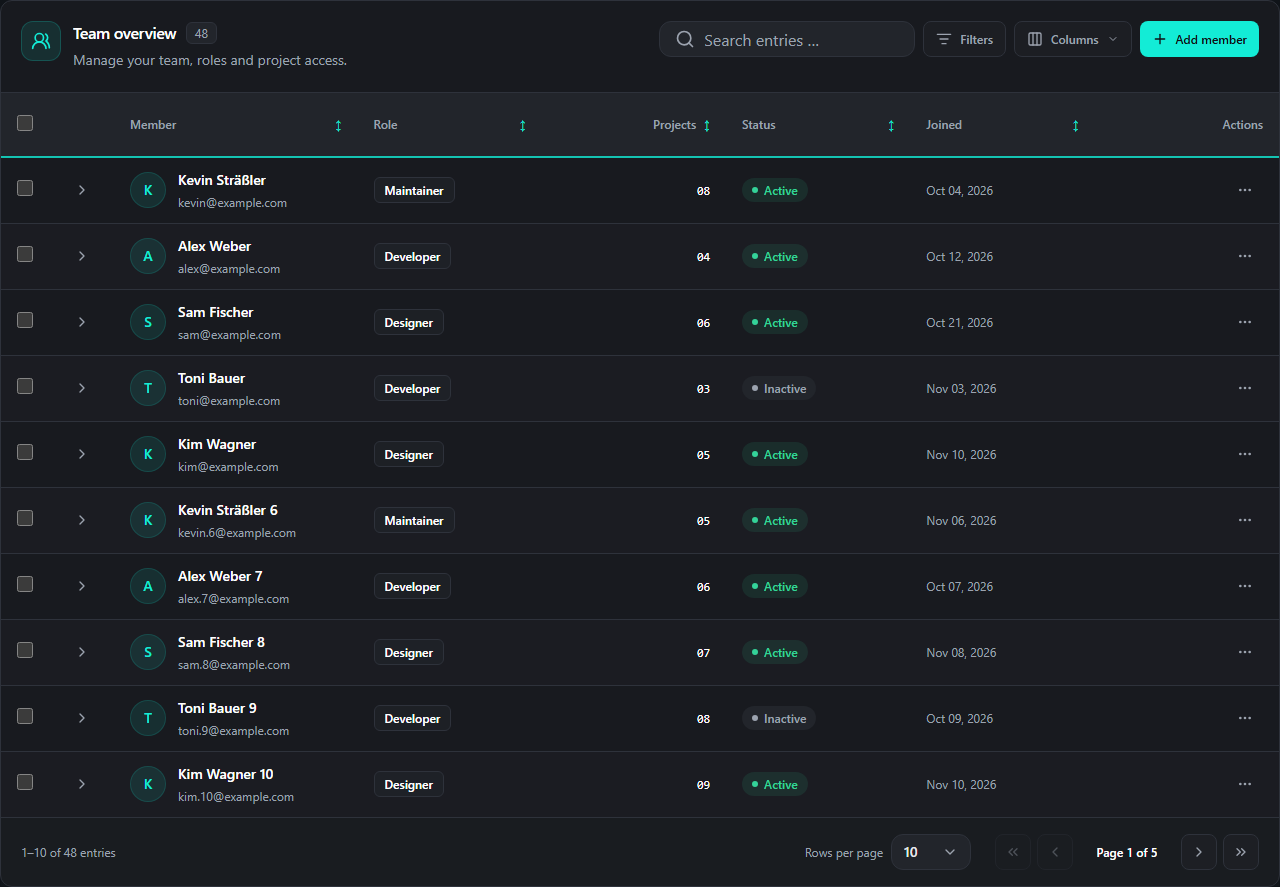
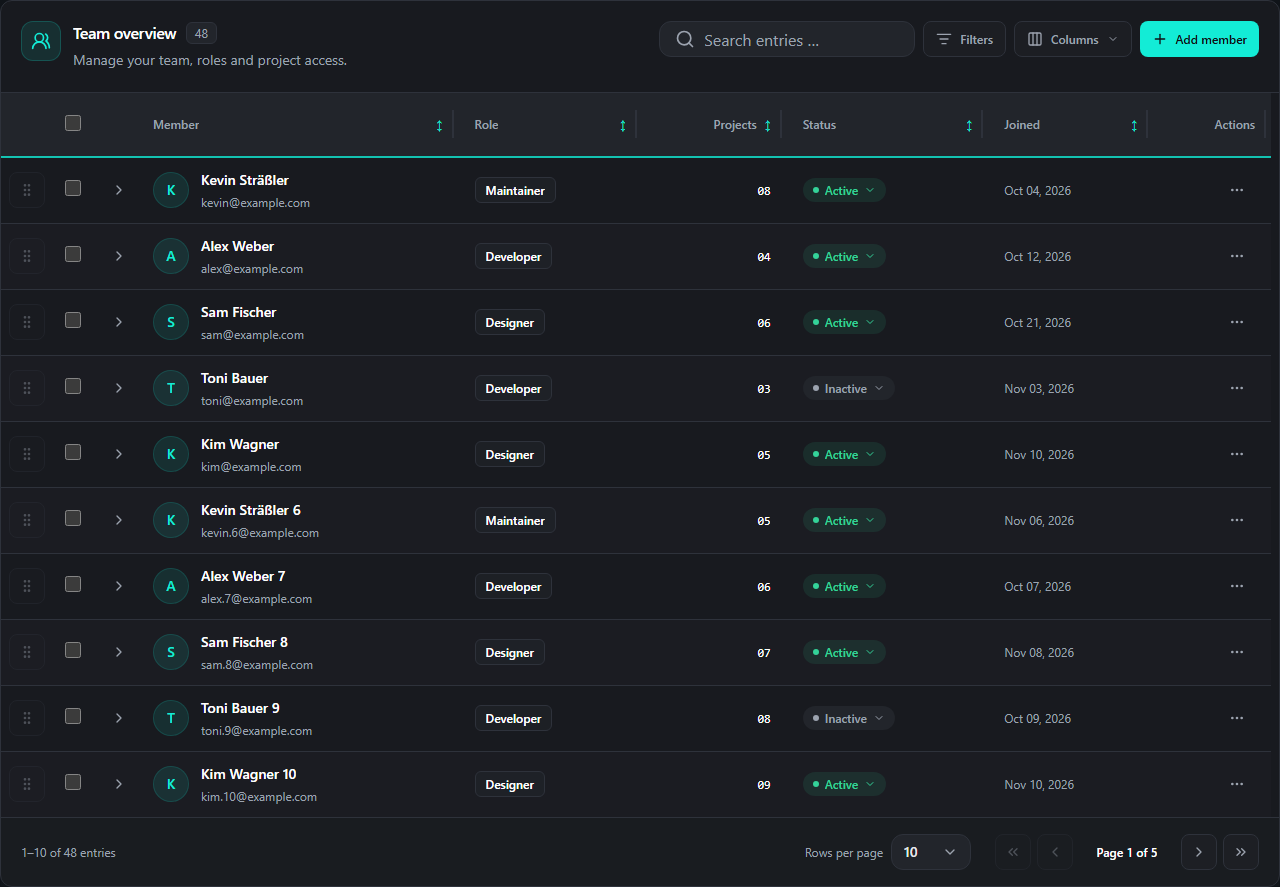
chore(release): prepare v1.0.0

diff --git a/src/tests/shared/Table/Components/columnResizing.test.tsx b/src/tests/shared/Table/Components/columnResizing.test.tsx
@@ -1,5 +1,5 @@
 import { afterEach, describe, expect, test } from 'bun:test'
-import { cleanup, fireEvent, render, screen } from '@testing-library/react'
+import { act, cleanup, fireEvent, render, screen } from '@testing-library/react'
 import { useState } from 'react'
 import { createTableColumnHelper, DataTable } from '../../../../index.ts'
 
@@ -28,7 +28,108 @@ const columns = helper.columns([
     }),
 ])
 
+const resizeTableView = (
+    roleVisible = true,
+    selectable = false,
+    maxSize = 1000,
+) => (
+    <DataTable
+        data={[{ name: 'Kevin', role: 'Engineer', team: 'Core' }]}
+        columns={maxSize === 1000 ? columns : [...columns]}
+        resizableColumns
+        selectable={selectable}
+        renderExpandedRow={selectable ? () => <p>Details</p> : undefined}
+        tableOptions={{
+            defaultColumn: { minSize: 90, maxSize },
+            state: { columnVisibility: { role: roleVisible } },
+        }}
+    />
+)
+
 describe('bounded resize interactions', () => {
+    test('keeps resize observers connected while updating widths, visibility and utility columns', () => {
+        const originalObserver = globalThis.ResizeObserver
+        const viewportWidth = Object.getOwnPropertyDescriptor(
+            HTMLElement.prototype,
+            'clientWidth',
+        )
+        let width = 600
+        const observers: Observer[] = []
+        class Observer implements ResizeObserver {
+            disconnected = false
+            constructor(readonly callback: ResizeObserverCallback) {
+                observers.push(this)
+            }
+            observe() {}
+            unobserve() {}
+            disconnect() {
+                this.disconnected = true
+            }
+        }
+        globalThis.ResizeObserver = Observer
+        Object.defineProperty(HTMLElement.prototype, 'clientWidth', {
+            configurable: true,
+            get() {
+                return this.hasAttribute('data-rentner-table-container')
+                    ? width
+                    : 0
+            },
+        })
+        try {
+            const { rerender, unmount } = render(resizeTableView())
+            const handle = screen.getByRole('separator', {
+                name: 'Resize Name',
+            })
+            expect(handle.getAttribute('aria-valuemax')).toBe('430')
+            const initial = observers.length
+            expect(initial).toBe(3)
+            for (let index = 0; index < 10; index++) rerender(resizeTableView())
+            fireEvent.mouseDown(handle, { button: 0, clientX: 100 })
+            for (let index = 0; index < 10; index++)
+                fireEvent.mouseMove(document, { clientX: 100 + index * 10 })
+            fireEvent.mouseUp(document, { clientX: 200 })
+            expect(observers).toHaveLength(initial)
+            expect(observers.every((observer) => !observer.disconnected)).toBe(
+                true,
+            )
+
+            rerender(resizeTableView(false, true))
+            expect(handle.getAttribute('aria-valuemax')).toBe('432')
+            expect(observers).toHaveLength(initial)
+            expect(
+                observers.filter((observer) => observer.disconnected),
+            ).toHaveLength(1)
+            width = 400
+            act(() => {
+                for (const observer of observers)
+                    if (!observer.disconnected) observer.callback([], observer)
+            })
+            expect(handle.getAttribute('aria-valuemax')).toBe('232')
+            fireEvent.keyDown(handle, { key: 'End' })
+            expect(handle.getAttribute('aria-valuenow')).toBe('232')
+
+            rerender(resizeTableView(false, true, 180))
+            expect(handle.getAttribute('aria-valuemax')).toBe('180')
+            fireEvent.keyDown(handle, { key: 'End' })
+            expect(handle.getAttribute('aria-valuenow')).toBe('180')
+            expect(observers).toHaveLength(initial)
+            unmount()
+            expect(observers.every((observer) => observer.disconnected)).toBe(
+                true,
+            )
+        } finally {
+            cleanup()
+            globalThis.ResizeObserver = originalObserver
+            if (viewportWidth)
+                Object.defineProperty(
+                    HTMLElement.prototype,
+                    'clientWidth',
+                    viewportWidth,
+                )
+            else Reflect.deleteProperty(HTMLElement.prototype, 'clientWidth')
+        }
+    })
+
     test('preserves controlled onEnd sizing, group leaves, inherited limits, RTL and touch cleanup', () => {
         const viewportWidth = Object.getOwnPropertyDescriptor(
             HTMLElement.prototype,

diff --git a/src/shared/Table/Hooks/useTableResizeHandleLogic.ts b/src/shared/Table/Hooks/useTableResizeHandleLogic.ts
@@ -31,6 +31,13 @@ export function useTableResizeHandleLogic<TData extends RowData>({
     )
     const [previewOffset, setPreviewOffset] = useState(0)
     const column = header.column
+    const visibleColumnCount = table.getVisibleLeafColumns().length
+    // The public table wrapper changes per render; the observer only needs
+    // the latest committed column count to distinguish utility columns.
+    const visibleColumnCountRef = useRef(visibleColumnCount)
+    useLayoutEffect(() => {
+        visibleColumnCountRef.current = visibleColumnCount
+    }, [visibleColumnCount])
     const label = getColumnLabel(column)
     const isResizing = column.getIsResizing()
     const direction = table.options.columnResizeDirection === 'rtl' ? -1 : 1
@@ -41,7 +48,7 @@ export function useTableResizeHandleLogic<TData extends RowData>({
             return Number.POSITIVE_INFINITY
         const utilityCount =
             (tableElement.querySelector('colgroup')?.children.length ?? 0) -
-            table.getVisibleLeafColumns().length
+            visibleColumnCountRef.current
         const utilityWidth = Array.from(
             tableElement.querySelector('colgroup')?.children ?? [],
         )
@@ -55,7 +62,7 @@ export function useTableResizeHandleLogic<TData extends RowData>({
                 0,
             )
         return Math.max(0, viewport.clientWidth - utilityWidth)
-    }, [table])
+    }, [])
     useLayoutEffect(() => {
         const measure = () => setAvailableWidth(getAvailableWidth())
         const viewport = element.current?.closest('table')?.parentElement

diff --git a/src/tests/shared/Table/Components/persistence.browser.spec.ts b/src/tests/shared/Table/Components/persistence.browser.spec.ts
@@ -5,6 +5,37 @@ test.beforeEach(async ({ page }) => {
     await page.emulateMedia({ reducedMotion: 'reduce' })
 })
 
+test('keeps the reordered rows when remembering settings is turned off', async ({
+    page,
+}) => {
+    await page.goto('/?remember=1')
+    const table = page.getByRole('table')
+    const handle = table.getByRole('button', {
+        name: 'Move Kevin Sträßler',
+        exact: true,
+    })
+    await expect(handle).toBeEnabled()
+    await handle.focus()
+    await page.keyboard.press('Space')
+    await expect(page.locator('[data-rentner-row-preview]')).toBeVisible()
+    await page.keyboard.press('ArrowDown')
+    await expect(page.locator('[id^="DndLiveRegion"]')).toContainText(
+        'position 2 of 10',
+    )
+    await page.keyboard.press('Space')
+    await expect(table.locator('tr[data-row-id]').nth(1)).toHaveAttribute(
+        'data-row-id',
+        'kevin',
+    )
+    await page
+        .getByRole('button', { name: 'Remember settings', exact: true })
+        .click()
+    await expect(table.locator('tr[data-row-id]').nth(1)).toHaveAttribute(
+        'data-row-id',
+        'kevin',
+    )
+})
+
 test('opts in from the playground without changing the default mode', async ({
     page,
 }) => {

diff --git a/playground/src/Types/playground.types.ts b/playground/src/Types/playground.types.ts
@@ -4,7 +4,6 @@ import type {
     TableLocale,
     TableRow,
     TableRowEvents,
-    TableRowOrderChange,
     TableSize,
 } from '../../../src/index.ts'
 import type { MouseEventHandler, ReactNode } from 'react'
@@ -34,7 +33,6 @@ export interface TeamTableProps {
     onAddMember: () => void
     onActivateMembers: (context: DataTableContext<Member>) => void
     onStatusChange: (id: string, active: boolean) => void
-    onRowOrderChange: (data: Member[], change: TableRowOrderChange) => void
 }
 
 export interface TeamTableLogicResult {
@@ -86,6 +84,5 @@ export interface PlaygroundLogicResult {
         handleAddMember: () => void
         handleActivateMembers: (context: DataTableContext<Member>) => void
         handleStatusChange: TeamTableProps['onStatusChange']
-        handleRowOrderChange: TeamTableProps['onRowOrderChange']
     }
 }

diff --git a/playground/src/Components/TeamTable.tsx b/playground/src/Components/TeamTable.tsx
@@ -19,7 +19,6 @@ export function TeamTable({
     onAddMember,
     onActivateMembers,
     onStatusChange,
-    onRowOrderChange,
 }: TeamTableProps) {
     const {
         state,
@@ -54,9 +53,6 @@ export function TeamTable({
                     striped={striped}
                     resizableColumns={resizableColumns}
                     reorderableRows={reorderableRows}
-                    onRowOrderChange={
-                        rememberSettings ? undefined : onRowOrderChange
-                    }
                     persistence={
                         rememberSettings
                             ? 'rentner-table:playground:team'

diff --git a/playground/src/App.tsx b/playground/src/App.tsx
@@ -172,7 +172,6 @@ export function App() {
                     onAddMember={handler.handleAddMember}
                     onActivateMembers={handler.handleActivateMembers}
                     onStatusChange={handler.handleStatusChange}
-                    onRowOrderChange={handler.handleRowOrderChange}
                 />
                 <footer className="mt-5 flex flex-wrap items-start justify-between gap-3 text-xs leading-5 text-rentner-muted">
                     <p>{playgroundMessages[state.locale].hint}</p>

diff --git a/playground/src/Hooks/usePlaygroundLogic.ts b/playground/src/Hooks/usePlaygroundLogic.ts
@@ -108,7 +108,6 @@ export function usePlaygroundLogic(): PlaygroundLogicResult {
             handleAddMember,
             handleActivateMembers,
             handleStatusChange,
-            handleRowOrderChange: setData,
         },
     }
 }

diff --git a/docs/usage.md b/docs/usage.md
@@ -59,11 +59,95 @@ export default function ReusableTeam() {
 }
 ```
 
-Resize a leaf column at its edge. Arrow keys change width by 10 pixels, Shift+Arrow by 50; Home or double-click resets its configured size, and End selects its maximum. `minSize`, `maxSize` and `enableResizing` configure each column. Native `tableOptions.columnResizeMode`, `columnResizeDirection`, controlled `state.columnSizing` and `onColumnSizingChange` remain available on `DataTable`.
+Resize a leaf column at its edge. Width stays within the available viewport: growing a column borrows available space from resizable peers until their minimum sizes or the configured maximum is reached. Arrow keys change width by 10 pixels, Shift+Arrow by 50; Home or double-click resets its configured size, and End selects its available maximum. `minSize`, `maxSize` and `enableResizing` configure each column. When a viewport cannot contain the configured minima, rendered widths fit proportionally without replacing persisted size preferences. Native `tableOptions.columnResizeMode`, `columnResizeDirection`, controlled `state.columnSizing` and `onColumnSizingChange` remain available on `DataTable`.
 
 Drag a row by its handle, hold the handle briefly on touch devices, or use Space, arrow keys and Space/Enter to move it with the keyboard. Escape and drops outside the table cancel. The preview stays within the visible table width and includes expanded details. Clear sorting before reordering; dragging is disabled while sorting is active or the table is loading or showing an error.
 
 `reorderableRows` alone keeps the order internally. Providing `onRowOrderChange(data, change)` makes the caller responsible for applying the returned array. `TableRowOrderChange` contains `activeId`, `overId`, `fromIndex` and `toIndex`; indices refer to the full supplied data, before filtering and pagination. Only rendered rows are drag targets. Keep stable record IDs, preserve the rest of the data when persisting server-page changes, and retain order in your backend when required. Selection and expanded details stay attached to their record during reordering. Drag dependencies load on demand.
+
+## Remembering table preferences
+
+Persistence is opt-in. Set `persistence="members:user-id"` for local browser storage, or supply an options object. Use a unique key per table and account; use React's `key` when changing the component's application identity. No complete data records, event handlers or transient drag state are stored.
+
+```tsx
+import { useRef } from 'react'
+import { DataTable, createTableColumnHelper } from '@rentnerkev/table'
+import type { TableStateController } from '@rentnerkev/table'
+
+type Member = { id: string; name: string }
+const column = createTableColumnHelper<Member>()
+const columns = column.columns([column.accessor('name', { header: 'Member' })])
+
+export function PersistentMembers({
+    members,
+    userId,
+    isLoading,
+}: {
+    members: readonly Member[]
+    userId: string
+    isLoading: boolean
+}) {
+    const preferences = useRef<TableStateController>(null)
+    return (
+        <DataTable
+            key={userId}
+            data={members}
+            columns={columns}
+            getRowId={(member) => member.id}
+            isLoading={isLoading}
+            resizableColumns
+            reorderableRows
+            selectable
+            stateRef={preferences}
+            persistence={{ key: `members:${userId}`, storage: 'local' }}
+        />
+    )
+}
+```
+
+Snapshots have `{ version: 1, state: { ... } }`. Supported fields are `sorting`, `columnFilters`, `globalFilter`, `columnVisibility`, `columnSizing`, `pagination`, `rowSelection`, `expanded`, `showFilters` and internal `rowOrder`. Set `fields` to an allowlist, for example `['sorting', 'columnSizing', 'columnVisibility']`. Use `storage: 'session'` for tab-session storage. Writes default to a 250 ms debounce; `debounceMs` changes the delay. Browser storage also flushes synchronously on `pagehide`.
+
+Internal row order is a list of stable IDs and survives asynchronous data loading when `isLoading` is supplied. With `onRowOrderChange`, the application owns data order: persist the returned IDs/positions in the application backend and supply the ordered records when loading. `applyTableRowOrder(data, ids, getRowId)` applies an ID list to current records while retaining new records' insertion positions.
+
+### Asynchronous database storage
+
+Supply a `TableStateStorage` adapter. `load(key, signal)` returns a snapshot or `null`; `save(key, snapshot)` stores it; optional `remove(key)` clears it. For example, connect these methods to an authenticated application API:
+
+```ts
+import type { TableStateStorage } from '@rentnerkev/table'
+
+const endpoint = (key: string) =>
+    `/api/table-preferences/${encodeURIComponent(key)}`
+export const preferencesStorage: TableStateStorage = {
+    async load(key, signal) {
+        const response = await fetch(endpoint(key), { signal })
+        if (response.status === 404) return null
+        if (!response.ok)
+            throw new Error(`Loading preferences failed (${response.status})`)
+        return response.json()
+    },
+    async save(key, snapshot) {
+        const response = await fetch(endpoint(key), {
+            method: 'PUT',
+            headers: { 'Content-Type': 'application/json' },
+            body: JSON.stringify(snapshot),
+        })
+        if (!response.ok)
+            throw new Error(`Saving preferences failed (${response.status})`)
+    },
+    async remove(key) {
+        const response = await fetch(endpoint(key), { method: 'DELETE' })
+        if (!response.ok && response.status !== 404)
+            throw new Error(`Clearing preferences failed (${response.status})`)
+    },
+}
+```
+
+Pass `persistence={{ key, storage: preferencesStorage, onError }}`. The table validates loaded snapshots, ignores obsolete columns, preserves fields edited while loading, aborts obsolete loads, and serializes writes so an older request cannot overwrite a later change. Failed loads leave the current UI usable and do not overwrite stored preferences with defaults. `onError(error, { operation, key })` reports failures; `onRestore(snapshot)` observes accepted state. Custom filter values must be JSON-compatible; unsupported values are omitted, and optional undefined object properties are omitted like `JSON.stringify`.
+
+`stateRef` exposes `getState()`, `restoreState(snapshot)`, `flush()`, `clear()` and `reload()`. Exported snapshots are detached; restoring a partial snapshot uses native controlled-state callbacks. `clear()` removes stored preferences without resetting the current UI, and `reload()` retries loading. If an adapter has no `remove`, clearing saves an empty snapshot. Await `flush()` before application navigation when the backend must confirm a write; arbitrary asynchronous requests cannot be guaranteed to finish after a browser tab closes.
+
+The headless hook exposes the same operations as `handler.handleGetState`, `handleRestoreState`, `handleFlushState`, `handleClearStoredState` and `handleReloadState`, plus `state.persistenceStatus` and `state.persistenceError`. Browser storage is accessed after mounting, so server rendering does not require `window`.
 
 ## Row, cell and table events
 
@@ -175,10 +259,14 @@ Set `locale="de"` or `locale="en"` and override individual labels or formatter f
 
 `isLoading` displays the loading state and disables built-in controls. `isRefreshing` retains the visible rows and adds a refresh indicator. Custom `toolbarActions` and `bulkActions` remain application-owned; manage their disabled state in your action components.
 
-Use `error={true}` for the translated default error message, a React node for custom content, and `onRetry` for retry behavior. `error={false}` leaves data visible. `emptyState`, `loadingState` and `noResultsState` customize their respective content. Filtered empty results include a reset action.
+Use `error={true}` for the translated default error message, a React node for custom content, and `onRetry` for retry behavior. `error={false}` leaves data visible. `emptyState`, `loadingState` and `noResultsState` customize their respective content. Filtered empty results include the active search and column-filter values, with readable select labels and dates, and a reset action. `messages.noResultsFor(summary)` customizes that title; custom `noResultsState` content retains precedence. The separate responsive filter panel remains visible, with `messages.anyDate` available for its date placeholder.
 
 ## Rendering and performance
 
 The library is ESM with public subpath exports and server-renderable markup. Interactive consumers need a client boundary in frameworks that distinguish server and client components. Date-filter UI loads lazily; row data remains application-owned.
 
-Pagination bounds rendered rows. Row virtualization, fetching, CSV export, editing, persistence and infinite scrolling are application responsibilities. For large remote datasets, filter/sort/page on the server and provide a page of rows. Keep `data`, columns and controlled state referentially stable when their contents have not changed.
+Pagination bounds rendered rows. Row virtualization, fetching, CSV export, editing, application-record persistence and infinite scrolling are application responsibilities. Table preferences have their own optional storage adapter. For large remote datasets, filter/sort/page on the server and provide a page of rows. Keep `data`, columns and controlled state referentially stable when their contents have not changed.
+
+## Updating from 0.0.2 to 1.0.0
+
+React 19 and Tailwind CSS 4 remain required, and existing public prop names remain available. Resizing now fits the viewport, and built-in filters use a responsive panel below the toolbar instead of header cells; update application CSS that targeted the old filter row. The additive message fields `anyDate` and `noResultsFor` are optional. Resizing, row dragging and persistence remain opt-in. Preference snapshots start at version 1; adapt custom storage responses to that versioned format.

diff --git a/README.md b/README.md
@@ -103,7 +103,7 @@ Screenshots come from the local playground with example data.
 <summary>Mobile layout</summary>
 
 <p align="center">
-    <img src="https://raw.githubusercontent.com/RentnerKev/RentnerTable/main/assets/readme/screenshots/mobile-table.png" alt="Mobile table with horizontal scrolling inside its viewport" width="350">
+    <img src="https://raw.githubusercontent.com/RentnerKev/RentnerTable/main/assets/readme/screenshots/mobile-table.png" alt="Mobile table with bounded resizing and selected visible columns" width="350">
 </p>
 
 </details>
@@ -113,14 +113,15 @@ Screenshots come from the local playground with example data.
 ## Features
 
 - Typed accessor, display and grouped columns through `createTableColumnHelper`.
-- Global search, independent text/select/date-range filters and custom filter renderers.
+- Global search and spacious, responsive text/select/date-range filters with custom renderers.
 - Keyboard sorting, Shift multi-sort, column visibility and configurable page sizes.
 - Stable row selection across pages, selectable-row predicates and bulk actions.
 - Row action menus, expandable details and custom cell renderers.
-- Optional column resizing with mouse, touch and keyboard controls.
+- Optional column resizing bounded by the available viewport, with mouse, touch and keyboard controls.
 - Optional row reordering with bounded previews, keyboard support and controlled data callbacks.
 - Typed row/cell click, double-click and context-menu callbacks for application actions.
-- Loading, refreshing, error/retry, empty and no-results states.
+- Loading, refreshing, error/retry, empty and no-results states with readable search/filter context.
+- Optional versioned preferences in local/session storage or an asynchronous database adapter, including internal row order.
 - German and English messages with per-message overrides.
 - Shared `--rentner-*` theme tokens, scoped popup containers, three densities and striped rows.
 - Native table semantics, SSR, headless composition and controlled server pagination/filtering/sorting.
@@ -138,7 +139,7 @@ bun run playground:install
 bun run playground:dev
 ```
 
-Open **http://127.0.0.1:4179**. Try resizing, row reordering, status editing, context menus, filters, bulk actions, row details, themes and loading/error/empty states.
+Open **http://127.0.0.1:4179**. Try resizing, row reordering, status editing, context menus, filters, bulk actions, row details, themes and loading/error/empty states. Enable **Remember settings** and reload to restore the table's preferences and internal row order.
 
 ```bash
 bunx playwright install chromium firefox webkit
